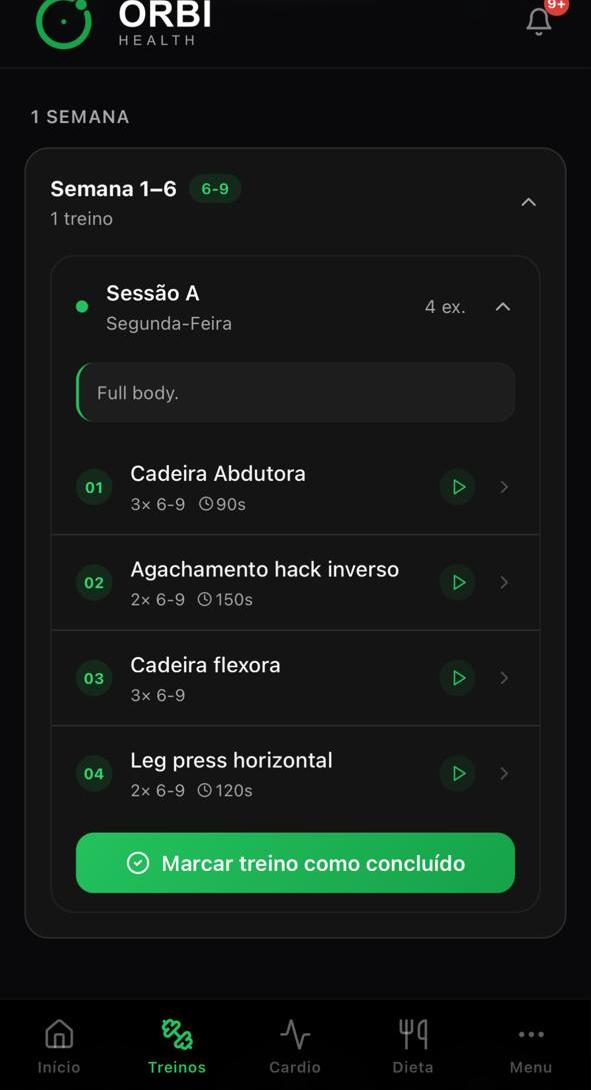
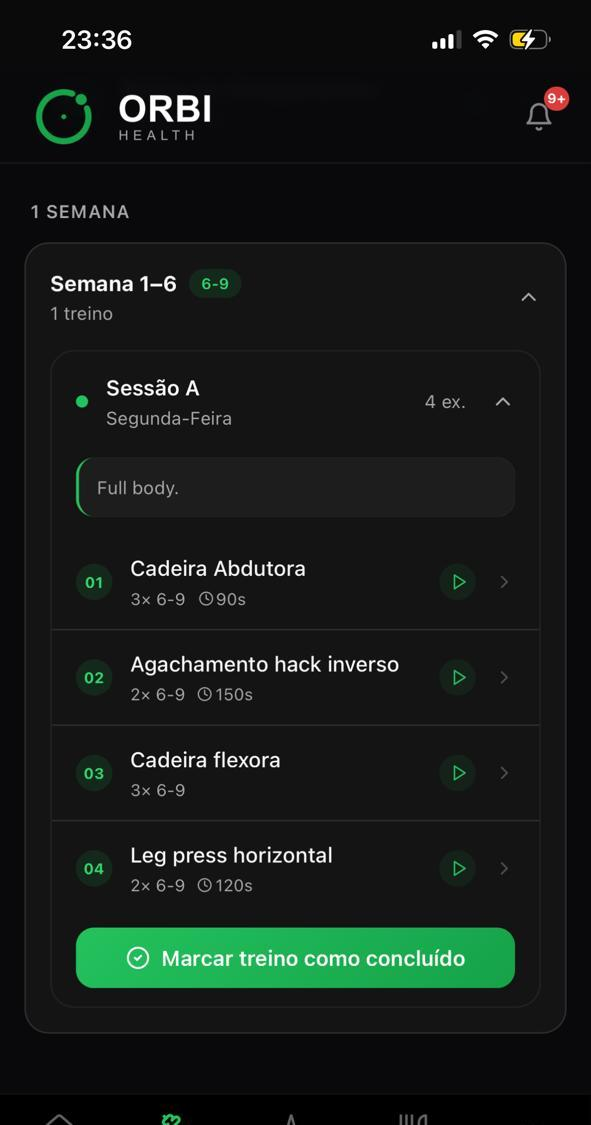
fix(images): increase bottom crop from 100 to 155px to remove browser URL bar

diff --git a/landing-page/process_images.py b/landing-page/process_images.py
@@ -1,0 +1,79 @@
+from PIL import Image, ImageDraw, ImageFont
+import os
+
+BASE = r"C:\Users\gabri\OneDrive\Documentos\PROJETOS CLAUDE\getshapetraining\landing-page\screenshots"
+OUT  = r"C:\Users\gabri\OneDrive\Documentos\PROJETOS CLAUDE\getshapetraining\landing-page\screenshots\processed"
+os.makedirs(OUT, exist_ok=True)
+
+# --- IMAGENS MOBILE DO ALUNO ---
+# Manter topo exatamente como esta (status bar nativa intacta).
+# Cortar apenas 100px do rodape (barra URL do Chrome).
+mobile_files = [
+    "WhatsApp Image 2026-06-05 at 23.38.37 (1).jpeg",
+    "WhatsApp Image 2026-06-05 at 23.38.37 (2).jpeg",
+    "WhatsApp Image 2026-06-05 at 23.38.37 (3).jpeg",
+    "WhatsApp Image 2026-06-05 at 23.38.37.jpeg",
+    "WhatsApp Image 2026-06-05 at 23.38.38 (1).jpeg",
+    "WhatsApp Image 2026-06-05 at 23.38.38 (2).jpeg",
+    "WhatsApp Image 2026-06-05 at 23.38.38.jpeg",
+    "WhatsApp Image 2026-06-05 at 23.41.36.jpeg",
+    "WhatsApp Image 2026-06-05 at 23.46.26.jpeg",
+]
+for fname in mobile_files:
+    path = os.path.join(BASE, "PAINEL DO ALUNO", fname)
+    if not os.path.exists(path):
+        print(f"NAO ENCONTRADO: {path}")
+        continue
+    img = Image.open(path)
+    w, h = img.size
+    # top=0: preserva status bar nativa intacta
+    cropped = img.crop((0, 0, w, h - 155))
+    cropped.save(os.path.join(OUT, fname))
+    print(f"OK: {fname} -> {cropped.size}")
+
+# --- FINANCEIRO MOBILE ---
+# Imagem de desktop simulando mobile - nao tem status bar nativa.
+# Adicionar status bar preta no topo (50px) com hora e icones.
+# Cortar 3px da borda direita (linha branca).
+fin_mobile_path = os.path.join(BASE, "PAINEL DO TREINADOR", "Captura de tela 2026-06-06 002741.png")
+if os.path.exists(fin_mobile_path):
+    img = Image.open(fin_mobile_path).convert("RGB")
+    w, h = img.size
+    img = img.crop((0, 0, w - 3, h))
+    w, h = img.size
+    STATUS_H = 50
+    new_img = Image.new("RGB", (w, h + STATUS_H), color="#0a0a0a")
+    new_img.paste(img, (0, STATUS_H))
+    draw = ImageDraw.Draw(new_img)
+    draw.rectangle([0, 0, w, STATUS_H], fill="#0a0a0a")
+    try:
+        font = ImageFont.truetype("arial.ttf", 16)
+        font_small = ImageFont.truetype("arial.ttf", 13)
+    except:
+        font = ImageFont.load_default()
+        font_small = font
+    draw.text((18, 16), "09:30", fill="white", font=font)
+    draw.text((w - 90, 17), "|||", fill="white", font=font_small)
+    draw.text((w - 55, 17), "WiFi", fill="white", font=font_small)
+    draw.text((w - 28, 17), "[|]", fill="white", font=font_small)
+    new_img.save(os.path.join(OUT, "financeiro-mobile.png"))
+    print(f"OK: financeiro-mobile.png -> {new_img.size}")
+else:
+    print("NAO ENCONTRADO: financeiro mobile")
+
+# --- COPIAR IMAGENS DO TREINADOR ---
+treinador_files = [
+    "Captura de tela 2026-06-04 221002.png",
+    "Captura de tela 2026-06-04 221535.png",
+    "Captura de tela 2026-06-04 221940.png",
+]
+for fname in treinador_files:
+    path = os.path.join(BASE, "PAINEL DO TREINADOR", fname)
+    if os.path.exists(path):
+        img = Image.open(path)
+        img.save(os.path.join(OUT, fname))
+        print(f"OK (copia): {fname}")
+    else:
+        print(f"NAO ENCONTRADO: {fname}")
+
+print("\nProcessamento concluido.")
